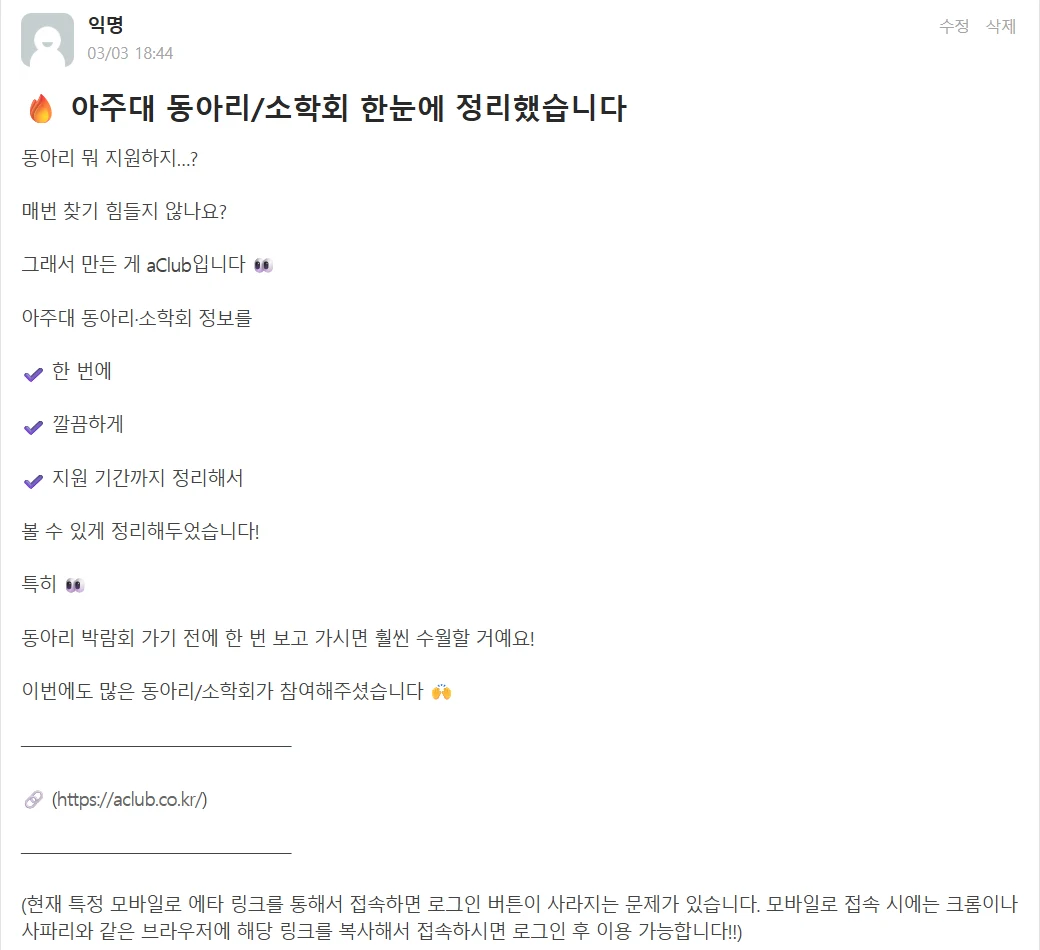
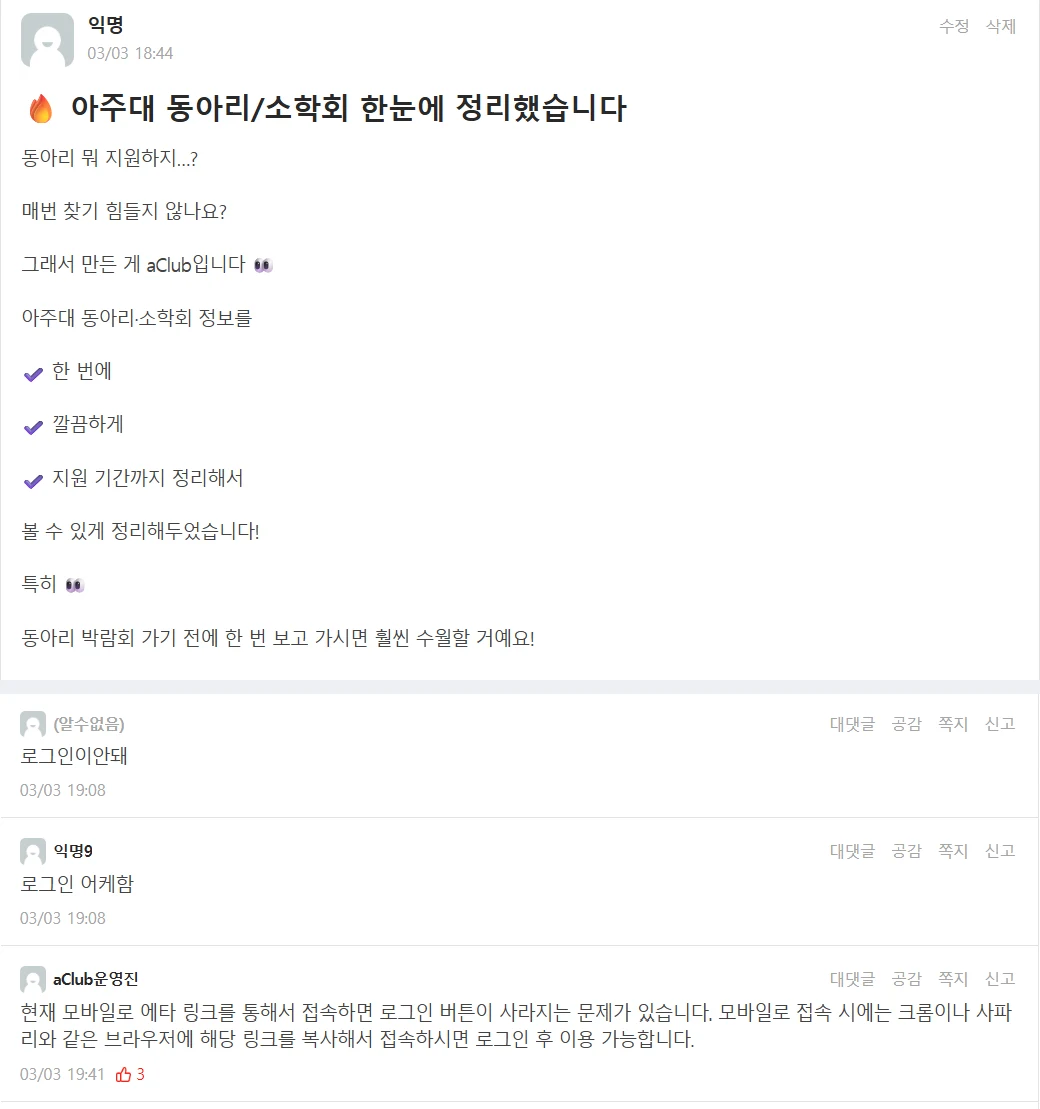
[ADD] aClub 에타 게시글 카드에 그날 댓글 세 줄 — 19:08 로그인 문의 둘 → 19:41 운영진 답변 -재훈
- 게시글 캡처 아래에 2026-09-04 댓글창 캡처에서 자른 세 줄을 붙였다. 본문 끝 안내문은 답변과 같은 글이라 잘라냄
- 갤러리 순서: 회장 답장(짧은 카드)을 코호트 옆으로, 게시글+댓글(긴 카드)을 에타·카톡 옆으로
- 캡션에 2026-09-04 기준 공감 109 · 스크랩 155

diff --git a/src/components/ui/project-viewers/richContent/data.ts b/src/components/ui/project-viewers/richContent/data.ts
@@ -2273,20 +2273,25 @@ export const RICH_DATA: Record<string, RichProject> = {
       // 숫자는 캡처에 찍힌 것만 적는다(공감 60 · 댓글 12 · 스크랩 111).
 
       // 출시 저녁 두 장(2026-09-04 추가). 위 [LAUNCH] 카드의 근거다 —
-      // 게시 시각·인기 글·안내문은 게시글 캡처에, 섭외 규모는 답장 목록에.
-      {
-        src: "/projects/op/aclub-launch-post.webp",
-        label: "출시 저녁 — 에브리타임 게시글 · 03/03 18:44",
-        ratio: "1040/950",
-        caption:
-          "사람이 몰리는 저녁 6시대에 올렸다. 같은 날 밤 실시간 인기 글 2위. 아래 괄호는 19:08 「로그인이 안 돼」 댓글에 19:41 운영진 댓글로 답한 뒤 본문에 붙인 안내다 — 에타 앱 안에서 열면 로그인 버튼이 사라져, 크롬·사파리로 열어 달라고 했다."
-      },
+      // 섭외 규모는 답장 목록에, 게시 시각·문의→답변은 게시글+댓글 캡처에.
+      // 순서: 답장(짧은 카드)이 코호트 옆, 게시글+댓글(긴 카드)이 에타·카톡 옆.
+      // 둘 다 세로로 긴 편이라 같은 줄에 두는 게 격자가 덜 삐뚤다.
       {
         src: "/projects/op/aclub-launch-replies.webp",
         label: "출시 저녁 — 회장들의 답장",
         ratio: "1350/626",
         caption:
           "등록을 요청한 동아리 회장들에게서 그날 저녁 답장이 이어졌다. 직함만 남기고 개인 이름과 사진은 가렸다."
+      },
+      {
+        src: "/projects/op/aclub-launch-post.webp",
+        label: "출시 저녁 — 에브리타임 게시글 18:44 · 문의 19:08 · 답변 19:41",
+        // 위는 게시글, 아래는 그날 댓글 세 줄. 게시글 본문 끝의 안내문은 잘랐다 —
+        // 19:41 운영진 답변과 같은 글이라, 둘 다 있으면 하나가 베낀 것처럼 읽힌다.
+        // 공감·스크랩 수는 2026-09-04 에 페이지에서 읽은 값(캡처는 없음).
+        ratio: "1040/1109",
+        caption:
+          "사람이 몰리는 저녁 6시대에 올렸고 같은 날 밤 실시간 인기 글 2위. 24분 뒤 「로그인이 안 돼」가 두 건 달렸고, 33분 뒤 운영진 댓글로 「크롬·사파리로 열어 달라」고 답했다 — 에타 앱 안에서 열면 로그인 버튼이 사라지는 문제였다. 2026-09-04 기준 공감 109 · 스크랩 155."
       },
       {
         src: "/projects/op/aclub-eta.webp",
